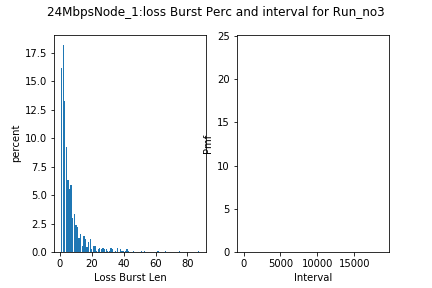
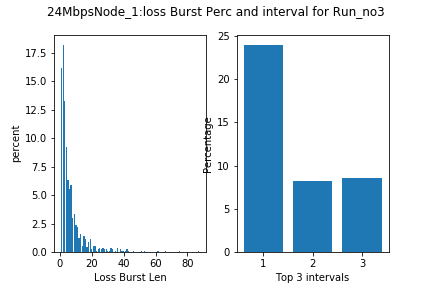
Minor Bug fixes

Changed region(s): [[0.5417, 0.1562, 0.9028, 1.0], [0.4514, 0.4062, 0.5116, 0.5938]]

diff --git a/plot_vizualization_master.py b/plot_vizualization_master.py
@@ -22,10 +22,10 @@ def plot_burst_len(run,path_to_file,frame_rate):
 #        print(interval)
         lists=interval.items()
         x, y = zip(*lists)
-        print(x,y)
+#        print(x,y)
         ax[0][1].bar(x,y)
-        ax[0][1].set_xlabel('Interval')
-        ax[0][1].set_ylabel('Pmf')
+        ax[0][1].set_xlabel('Top 3 intervals')
+        ax[0][1].set_ylabel('Percentage')
         fig.suptitle(str(path_to_file.split('/')[1])+path_to_file[path_to_file.index('Node'):path_to_file.rfind('/')]+':'+'loss Burst Perc and interval for Run_no'+str(key))
         fig.savefig(str(path_to_file)+'Pmf_Run_no'+str(key)+'.png')
         fig.clf()
@@ -59,7 +59,7 @@ def plot_consolidated_run_master(receivers,path):
             lists=ret.items()
             x,y=zip(*lists)
             ax[i][j].bar(x,y)
-            ax[i][j].set_title('Interval Vs Perc across all runs Node'+str(i+1),fontsize=10,pad=-10)
+            ax[i][j].set_title('Top 3  Interval Vs Perc across all runs Node'+str(i+1),fontsize=10,pad=-10)
             j+=1
     
         i+=1
@@ -69,5 +69,31 @@ def plot_consolidated_run_master(receivers,path):
     plt.close(fig)
     return 0
 
+def plot_missing_across_runs(path_to_file,runs,frame_rate):
+    for key,value in runs.items():
+        ret=get_byte_loss_data(value,len(value))
+        
+        x1=ret[1][0]
+        y1=ret[1][1]
+        x2=ret[2][0]
+        y2=ret[2][1]
+        x3=ret[3][0]
+        y3=ret[3][1]
+        
+        
+#        print(x1,y1,x2,y2,x3,y3)
+        lege=ret[4]
+        
+        if (len(x1)>0 and len(y1)>0) and (len(x2)>0 and len(y2)>0) and (len(x3)>0 and len(y3)>0):
+            plt.bar(x1,y1,color='red',label='>Min<Median'+str(lege[0]))
+            plt.bar(x2,y2,color='blue',label='>Median<Max'+str(lege[1]))
+            plt.bar(x3,y3,color='green',label='>Max'+str(lege[2]))
+            plt.xlabel('Byte Value')
+            plt.ylabel('Percentage of times it was missed across Runs')
+            plt.title('Missing Bytes Across A Run')
+            plt.legend()
+            plt.savefig(str(path_to_file)+'MissingBytes_Run_no'+str(key)+'.png')
+            plt.clf()
+    return 0
 
 

diff --git a/require.py b/require.py
@@ -15,11 +15,6 @@ import numpy as np
 import statistics
 
 
-
-
-
-
-
 def file_read(file):
     line=file.readlines()
     runN0=0;
@@ -76,11 +71,11 @@ def get_interval_perc(run):
                 count=0
             elif i!='y':
                 count+=1
-    print(len(arr))
+#    print(len(arr))
     if len(arr)>0:
-        interval=Counter(arr)
+        interval=Counter(arr).most_common(3)
         print(interval)
-        for key,value in interval.items():
+        for key,value in interval:
             intval[key]=(value/len(arr)*100)
         return intval
     else:
@@ -137,13 +132,11 @@ def get_byte_loss_data(frame,length):
     arr=[]
     d={}
     st=''
-    for i in range(0,len(frame)):
-        st+=(frame[i])
-        for k in range(0,len(st)):
-            if st[k]=='y':
-                arr.append(k)
-        st=''
-    
+    for recv in frame:
+        for idx,i in enumerate(recv):
+            if i=='y':
+                arr.append(idx)
+            
     byte_loss=Counter(arr)
     
     
@@ -153,21 +146,24 @@ def get_byte_loss_data(frame,length):
     max_val=max(byte_loss.values())
     min_val=min(byte_loss.values())
     median_val=round(statistics.median(byte_loss.values()))
-    
+    t=[]
+    t.extend([min_val,median_val,max_val])
     
     for key,value in byte_loss.items():
-        if value > min_val and value<median_val:
+        if  value<median_val:
             min_val_loc.append(key)
-            min_val_val.append(value)
-        elif value > median_val and value<max_val:
+            min_val_val.append(((value/length)*100))
+        elif value<max_val:
             median_val_loc.append(key)
-            median_val_val.append(value)
+            median_val_val.append(((value/length)*100))
         elif value >= max_val:
             max_val_loc.append(key)
-            maxval_val.append(value)
+            maxval_val.append(((value/length)*100))
 
-         
-    return [byte_loss,min_val_loc,min_val_val,median_val_loc,median_val_val,max_val_loc,maxval_val]
+
+
+     
+    return [byte_loss,[min_val_loc,min_val_val],[median_val_loc,median_val_val],[max_val_loc,maxval_val],t]
 
 
 

diff --git a/main.py b/main.py
@@ -27,7 +27,7 @@ except FileExistsError:
     print("Directory " , dirName ,  " already exists")
 
 
-for i in range (1,5):
+for i in range (1,4):
     try:
         st=dirName+'/Node_'+str(i)
         os.mkdir(st)
@@ -71,13 +71,32 @@ for i,value in enumerate(arr):
 
     
     plot_burst_len(value,st,frame1) 
+    plot_missing_across_runs(st,value,frame1)
 
 
 path=dirName
 plot_consolidated_run_master(arr,path)
 
 
-    
+ret=get_byte_loss_data(recv_1[0],len(recv_1[0]))
+
+
+x1=ret[1][0]
+y1=ret[1][1]
+
+x2=ret[2][0]
+y2=ret[2][1]
+
+
+x3=ret[3][0]
+y3=ret[3][1]
+plt.bar(x1,y1,color='red')
+plt.bar(x2,y2,color='blue')
+plt.bar(x3,y3,color='green')
+
+
+
+
 
   # used to compuet pmf and interval across all runs
 
